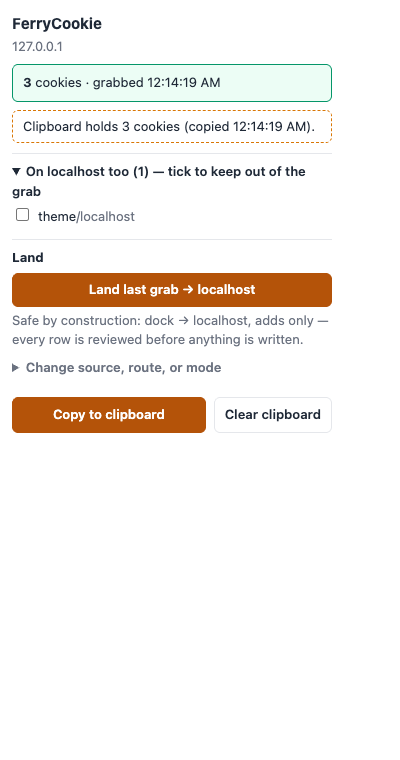
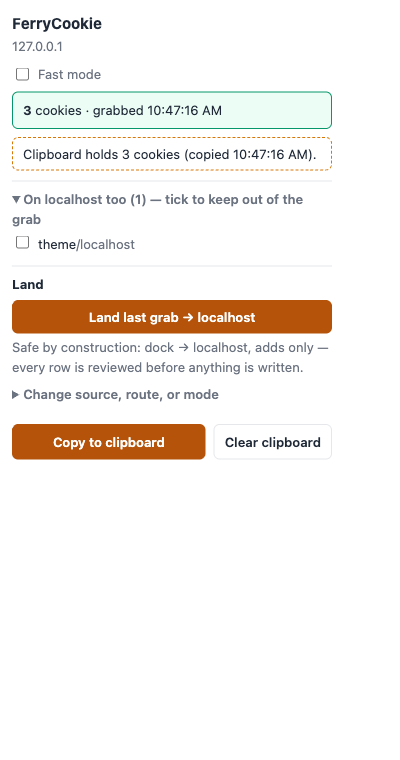
feat: fast mode — the popup becomes one button per side
A Fast mode toggle (header, persisted in storage.local — a UI boolean,
the extension's only non-session state) collapses the popup to the
side you are on:

- source site (anything outside the localhost family, incl. the
  127.0.0.1/[::1] production stand-ins): one 'Grab the cookies'
  button; success reads 'Collected N cookies from {site}'. The line
  reflects only grabs made through the fast button in this popup —
  stale session credential state never poses as a fresh result.
- destination (localhost, *.localhost): one 'Land the transformed
  cookies here' button — the pinned quick path (dock, fill-gaps, this
  host) ending on the same reviewed diff. Fast mode removes clicks
  before the write, never the review of the write.
- receipt, flags, protect list, and the full land controls fold into
  a Details disclosure, closed by default; landing views (diff,
  report, restore) render outside it so they appear mid-flow. Full
  mode is pixel-identical to before (summary hidden, details open).

quickLandTo(host) is exposed from the land flow for the fast land
button (guarded at the export; the quick button wraps its own). E2e
grows a both-sides fast scenario (16/16) placed last so a failure
cannot leak the toggle into other scenarios; showcase gains a fast
mode section with three new shots.

Changed region(s): [[0.03, 0.0908, 0.84, 0.6053]]

diff --git a/src/popup/popup.js b/src/popup/popup.js
@@ -9,6 +9,11 @@ import { initLandFlow } from './land-flow.js';
 
 const $ = (id) => document.getElementById(id);
 
+// Fast mode is a pure UI preference (which surface to lead with) — the only
+// persistent state the extension keeps; every cookie-derived state stays
+// session-scoped.
+const FAST_KEY = 'fc-fast-mode';
+
 const state = {
   tab: null,
   raw: [],
@@ -18,7 +23,11 @@ const state = {
   guard: null,
   cred: null,
   grabbedAt: null,
+  fast: false,
+  fastGrab: null, // the grab made through the fast button, this popup only — never stale session history
 };
+
+let landFlowApi = null;
 
 init();
 
@@ -26,6 +35,8 @@ async function init() {
   wireEvents();
   chrome.action.setBadgeText({ text: '' }); // the popup shows the full receipt
   try {
+    const storedFast = await chrome.storage.local.get(FAST_KEY);
+    state.fast = storedFast[FAST_KEY] === true;
     // The protect list is session state shared by copy and landing; load it
     // even on guarded pages so the Land flow can honor it anywhere.
     const storedProtect = await chrome.storage.session.get({ 'fc-protect': [] });
@@ -40,10 +51,11 @@ async function init() {
   } catch (err) {
     state.guard = 'error: ' + (err?.message ?? String(err));
   }
-  initLandFlow({
+  landFlowApi = initLandFlow({
     getProtect: () => state.protect,
     getActiveTabUrl: () => state.tab?.url ?? null,
   });
+  applyFastMode();
   render();
   // One-time, on popup open: if a protected row is in the preview, expand it
   // so the checkbox — the only way back out of the protect list — is not
@@ -57,6 +69,9 @@ function wireEvents() {
   $('copy').addEventListener('click', onCopy);
   $('clear').addEventListener('click', onClear);
   $('preview-list').addEventListener('change', onProtectToggle);
+  $('fast-toggle').addEventListener('change', onFastToggle);
+  $('fast-grab').addEventListener('click', onCopy); // the same grab gesture, one-button surface
+  $('fast-land').addEventListener('click', onFastLand);
 }
 
 async function refreshGrab() {
@@ -86,10 +101,12 @@ async function onCopy() {
   const text = etcV3.serialize(state.grab.cookies);
   try {
     await navigator.clipboard.writeText(text); // the popup click is the user gesture
-    state.cred = { holds: true, count: state.grab.cookies.length, at: Date.now() };
+    state.cred = { holds: true, count: state.grab.cookies.length, at: Date.now(), site: jarKey(state.tab.url) };
+    if (state.fast) state.fastGrab = state.cred;
     await chrome.storage.session.set({ 'fc-cred': state.cred, 'fc-receipt': receiptOf() });
   } catch (err) {
     state.cred = { holds: false, error: err?.message ?? String(err) };
+    if (state.fast) state.fastGrab = state.cred;
     render();
     return;
   }
@@ -146,6 +163,41 @@ function receiptOf() {
   };
 }
 
+// Fast mode: the popup is one button. The destination side is the localhost
+// family (the grab's rewrite target); everything else — real sites, and the
+// alternate loopback jars 127.0.0.1/[::1] used as production stand-ins — is
+// a grab side.
+function isDestSide() {
+  if (!state.tab?.url) return false;
+  const host = jarKey(state.tab.url);
+  return host === 'localhost' || host.endsWith('.localhost');
+}
+
+function applyFastMode() {
+  document.body.classList.toggle('fast', state.fast);
+  $('fast-toggle').checked = state.fast;
+  // Details (receipt, flags, protect list, land controls) reads like today's
+  // UI in full mode; fast mode keeps it closed until asked for. Manual opens
+  // survive — this runs only on init and on the toggle, never on render.
+  $('fast-details').open = !state.fast;
+}
+
+async function onFastToggle() {
+  state.fast = $('fast-toggle').checked;
+  try {
+    await chrome.storage.local.set({ [FAST_KEY]: state.fast });
+  } catch {
+    // a missed preference persistence must not break the surface switch
+  }
+  applyFastMode();
+  render();
+}
+
+function onFastLand() {
+  if (!isDestSide() || !landFlowApi) return;
+  landFlowApi.quickLandTo(jarKey(state.tab.url)); // pinned: dock, fill-gaps, this host
+}
+
 function timeOf(ts) {
   return ts ? new Date(ts).toLocaleTimeString() : '';
 }
@@ -187,8 +239,36 @@ function render() {
   renderCred();
   renderFlags();
   renderPreview();
+  renderFast(emitted);
 
   $('copy').disabled = Boolean(state.guard) || emitted === 0;
+}
+
+function renderFast(emitted) {
+  if (!state.fast) {
+    $('fast-view').hidden = true;
+    return;
+  }
+  const dest = isDestSide();
+  $('fast-view').hidden = false;
+  $('fast-grab').hidden = dest;
+  $('fast-land').hidden = !dest;
+  $('fast-land-meta').hidden = !dest;
+  $('fast-grab').disabled = Boolean(state.guard) || emitted === 0; // same gate as Copy
+
+  const res = $('fast-result');
+  const grab = state.fastGrab;
+  if (!dest && grab?.holds) {
+    res.textContent = `Collected ${grab.count} cookie${grab.count === 1 ? '' : 's'} from ${grab.site}`;
+    res.classList.remove('error');
+    res.hidden = false;
+  } else if (!dest && grab && !grab.holds) {
+    res.textContent = `Grab failed — ${grab.error}`;
+    res.classList.add('error');
+    res.hidden = false;
+  } else {
+    res.hidden = true;
+  }
 }
 
 function renderCred() {

diff --git a/src/popup/popup.html b/src/popup/popup.html
@@ -9,6 +9,10 @@
   <header>
     <h1>FerryCookie</h1>
     <p id="source-line" class="meta"></p>
+    <label id="fast-mode-row" for="fast-toggle">
+      <input type="checkbox" id="fast-toggle">
+      <span>Fast mode</span>
+    </label>
   </header>
 
   <section id="guard" hidden>
@@ -16,7 +20,24 @@
     <p id="guard-hint" class="meta"></p>
   </section>
 
-  <section id="receipt" hidden>
+  <!-- Fast mode surface: exactly one button for the side you are on. -->
+  <div id="fast-view" hidden>
+    <button id="fast-grab" class="full">Grab the cookies</button>
+    <p id="fast-result" hidden></p>
+    <button id="fast-land" class="full" hidden>Land the transformed cookies here</button>
+    <p id="fast-land-meta" class="meta" hidden>Dock → this host, adds only — reviewed on the diff before anything is written.</p>
+  </div>
+
+  <!-- Refusals from the land flow must stay visible in fast mode too, so
+       this line lives outside the Details disclosure. -->
+  <p id="land-reason" class="meta" hidden></p>
+
+  <!-- Everything detailed folds in here: open (and summary hidden) in full
+       mode — the layout is unchanged — collapsed by default in fast mode. -->
+  <details id="fast-details" open>
+    <summary>Details</summary>
+
+    <section id="receipt" hidden>
     <p><strong id="receipt-count"></strong> <span id="receipt-cookies-label">cookies</span> · grabbed <time id="receipt-time"></time></p>
   </section>
 
@@ -33,10 +54,6 @@
 
   <section id="land">
     <h2 id="land-heading">Land</h2>
-
-    <!-- Lives outside every view container: refusals raised on the diff,
-         report, dialect, or restore screens must stay visible. -->
-    <p id="land-reason" class="meta" hidden></p>
 
     <div id="land-setup">
       <button id="land-quick" class="full">Land last grab → localhost</button>
@@ -94,7 +111,12 @@
         <ul id="land-snapshot-list"></ul>
       </div>
     </div>
+  </section>
+  </details>
 
+  <!-- Landing views render outside the Details disclosure so they appear
+       even while fast mode keeps everything else folded away. -->
+  <section id="land-views">
     <div id="land-dialect" hidden>
       <p>Input parses as more than one dialect. Which is it?</p>
       <div id="land-dialect-options"></div>

diff --git a/src/popup/land-flow.js b/src/popup/land-flow.js
@@ -131,6 +131,9 @@ export function initLandFlow({ getProtect, getActiveTabUrl }) {
   function show(view) {
     land.view = view;
     for (const id of views) $(id).hidden = id !== 'land-' + view;
+    // The landing views live outside the Details disclosure (they must show
+    // in fast mode); the wrapper draws their separator only when active.
+    $('land-views').hidden = view === 'setup';
     // While a landing is in progress the copy flow demotes to secondary —
     // one primary action per screen.
     document.body.classList.toggle('landing', view !== 'setup');
@@ -222,10 +225,16 @@ export function initLandFlow({ getProtect, getActiveTabUrl }) {
   }
 
   // The quick action is the safe path by construction — pinned defaults, no
-  // matter what the power controls or session prefs say.
-  async function onQuickLand() {
+  // matter what the power controls or session prefs say. fast mode's Land
+  // button reuses it against the active destination host (guarded at the
+  // export — the quick button already wraps its own handler).
+  function quickLandTo(targetHost) {
     reason('');
-    await runRead({ lane: 'dock', targetHost: 'localhost', mode: 'fill-gaps', advanced: false });
+    return runRead({ lane: 'dock', targetHost, mode: 'fill-gaps', advanced: false });
+  }
+
+  async function onQuickLand() {
+    await quickLandTo('localhost');
   }
 
   function renderDialectOptions(candidates) {
@@ -758,5 +767,5 @@ export function initLandFlow({ getProtect, getActiveTabUrl }) {
 
   show('setup');
   restorePrefs();
-  return { land };
+  return { land, quickLandTo: (host) => guarded(() => quickLandTo(host)) };
 }

diff --git a/src/popup/popup.css b/src/popup/popup.css
@@ -44,6 +44,68 @@ header h1 {
   word-break: break-all;
 }
 
+#fast-mode-row {
+  display: flex;
+  gap: 6px;
+  align-items: center;
+  margin: 4px 0 8px;
+  color: var(--muted);
+  cursor: pointer;
+  user-select: none;
+  word-break: normal;
+}
+
+#fast-view {
+  margin: 8px 0;
+}
+
+#fast-result {
+  margin: 8px 0 0;
+  padding: 6px 10px;
+  border: 1px solid var(--ok-border);
+  border-radius: 6px;
+  background: var(--ok-bg);
+}
+
+#fast-result.error {
+  border-color: var(--warn-border);
+  background: var(--warn-bg);
+}
+
+#fast-land-meta {
+  margin: 4px 0 0;
+}
+
+#fast-details summary {
+  cursor: pointer;
+  user-select: none;
+  margin: 8px 0;
+  color: var(--muted);
+  font-weight: 600;
+}
+
+/* Full mode: the Details wrapper is transparent — open, no summary, the
+   layout identical to before fast mode existed. */
+body:not(.fast) #fast-details > summary {
+  display: none;
+}
+
+/* Fast mode: one button is the surface; the footer's copy controls and the
+   in-progress fast buttons step aside while a landing is reviewed. */
+body.fast footer {
+  display: none;
+}
+
+body.landing #fast-view {
+  display: none;
+}
+
+#land-views {
+  margin-top: 12px;
+  border-top: 1px solid var(--line);
+  padding-top: 8px;
+}
+
 #guard {
   padding: 8px 10px;
   border: 1px solid var(--warn-border);

diff --git a/README.md b/README.md
@@ -73,6 +73,22 @@ folder.
   document; the badge shows the count (or `!` when a page is restricted or
   has no cookies).
 
+## Fast mode
+
+A toggle at the top of the popup (persists across restarts — it is a UI
+preference, not data). When on, the popup is one button for the side you
+are on:
+
+- **On the source site** (anything outside the `localhost` family — real
+  sites, and the `127.0.0.1`/`[::1]` production stand-ins): **Grab the
+  cookies**. On success: *Collected {n} cookies from {site}*.
+- **On the destination** (`localhost`, `*.localhost`): **Land the
+  transformed cookies here** — the pinned quick path (dock lane, add-only
+  fill-gaps, this host) ending on the same reviewed diff as always. Fast
+  mode removes clicks *before* the write, never the review of the write.
+- Everything else — receipt, flags, protect list, the full land controls —
+  folds into a **Details** disclosure, closed by default.
+
 ## Land (mvp2)
 
 Every successful copy also refreshes the **dock** — the session-scoped copy
@@ -174,7 +190,9 @@ path reads the clipboard except the explicit **Read input** click.
 - Zero egress, zero telemetry.
 - Cookie values at rest live only in `storage.session` — the dock grab and
   the undo snapshots. **Snapshots die with the browser; that is the
-  retention policy.** Up to 3 are kept, oldest evicted.
+  retention policy.** Up to 3 are kept, oldest evicted. The one deliberate
+  exception: the Fast-mode boolean (a UI preference, no cookie data) persists
+  in `storage.local`.
 - Cookie values are rendered via `textContent` only, never HTML.
 - An empty array never reaches the clipboard; restricted pages
   (`chrome://`, Web Store, PDF viewer, extension pages) and zero-cookie

diff --git a/docs/showcase.md b/docs/showcase.md
@@ -66,11 +66,29 @@ Pages with nothing to ferry disable the action with the reason instead of a dead
 
 ![Zero-cookie page — named disable](screenshots/11-guard-empty-jar.png)
 
+## 8 · Fast mode — the popup is one button
+
+Flip **Fast mode** (top of the popup, remembered across restarts) and the whole interface collapses to the side you're on. On the source site, one button:
+
+![Fast mode on the source — Grab the cookies](screenshots/12-fast-grab.png)
+
+One click, and the receipt is a single sentence:
+
+![Fast mode grab result — Collected 3 cookies from 127.0.0.1](screenshots/13-fast-result.png)
+
+On `localhost`, the same popup becomes the destination — one button, the pinned add-only path onto this host, still ending on the reviewed diff:
+
+![Fast mode on localhost — Land the transformed cookies here](screenshots/14-fast-land.png)
+
+Everything else — receipt, flags, protect list, the full land controls — waits behind the **Details** disclosure, closed by default. Fast mode removes clicks before the write, never the review of the write.
+
 ## Cheat sheet
 
 | Gesture | Where | Posture |
 |---|---|---|
 | Copy | popup / context menu / `Ctrl+Cmd+Shift+9` | one click + visible credential state |
+| Fast grab | Fast mode, source site | one click, one-sentence receipt |
+| Fast land | Fast mode, `localhost` | one click to the pinned diff |
 | Land (quick) | popup → *Land last grab → localhost* | one click, add-only, reviewed on the diff |
 | Land (fill-gaps, merge, curated) | popup → Change source, route, or mode → Read input → Land | one click on the diff |
 | Land (replace) | popup → mode: replace | type `LAND` |
